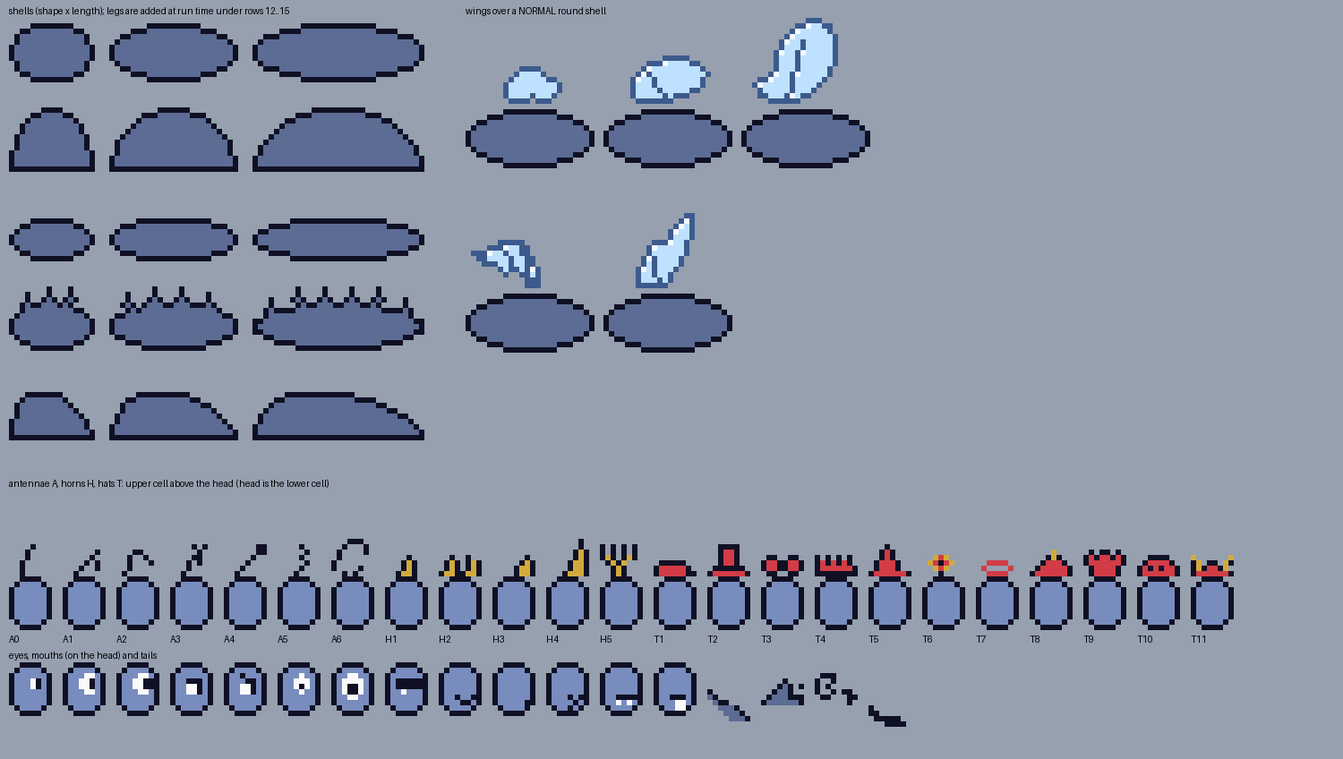
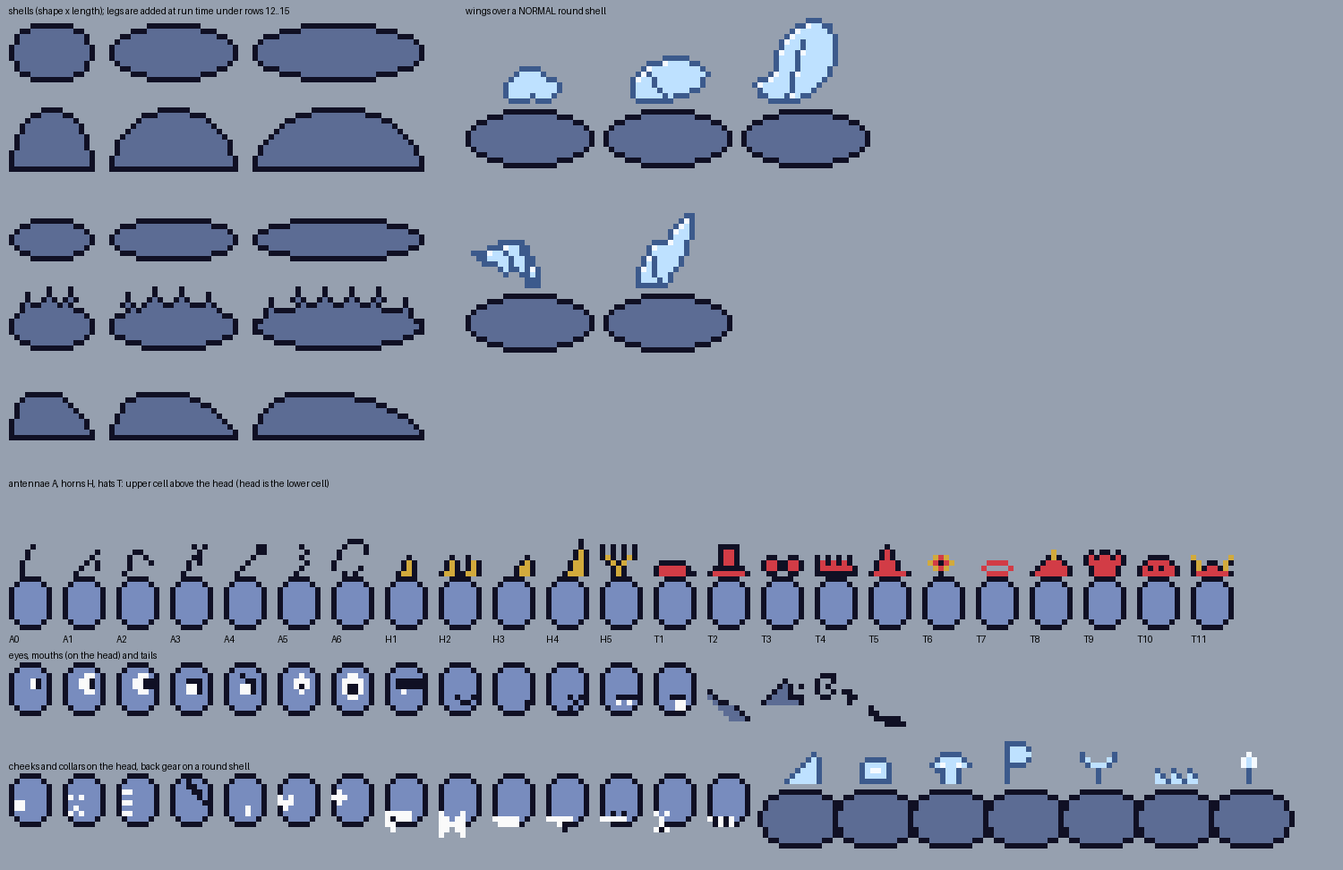
Creator: cheek paint, collars and back gear (16 parts), 24 more looks, 16 more colours; Save version 3 converts old saves
Claude-Session: https://claude.ai/code/session_01Pv3MBsFuKZ8wvqc3oRMvSU

Changed region(s): [[0.0, 0.6132, 0.9813, 0.9811], [0.0, 0.0, 0.6747, 0.5825], [0.3373, 0.0, 0.46, 0.0307]]

diff --git a/src/bug.c b/src/bug.c
@@ -6,7 +6,7 @@
 
 #define C15(r,g,b) ((UINT16)(((r)>>3)|(((g)>>3)<<5)|(((b)>>3)<<10)))
 
-static const UINT8 part_n[BP_N] = { 3, 5, 4, 12, 8, 6, 8, 3, 4, 6, 6, 5, 12 };
+static const UINT8 part_n[BP_N] = { 3, 5, 4, 12, 8, 6, 8, 3, 4, 6, 6, 5, 12, 8, 8, 8 };
 static const char *const n_length[] = { "SHORT", "NORMAL", "LONG" };
 static const char *const n_shape[]  = { "ROUND", "DOME", "FLAT", "SPIKY", "HUMPED" };
 static const char *const n_finish[] = { "SHINY", "MATTE", "METAL", "PEARL" };
@@ -20,14 +20,19 @@ static const char *const n_horn[]   = { "NONE", "HORN", "TWINS", "RHINO", "UNICO
 static const char *const n_wing[]   = { "NONE", "LITTLE", "BEETLE", "FLUTTER", "BAT", "FAIRY" };
 static const char *const n_tail[]   = { "NONE", "STINGER", "SPIKES", "CURLY", "LONG" };
 static const char *const n_hat[]    = { "NONE", "CAP", "TOP HAT", "BOW", "CROWN", "PARTY", "FLOWER", "HALO", "BEANIE", "CHEF", "HELMET", "VIKING" };
-static const char *const *const part_names[BP_N] = { n_length, n_shape, n_finish, n_pat, n_eye, n_mouth, n_ant, n_legs, n_legst, n_horn, n_wing, n_tail, n_hat };
-static const char *const part_label[BP_N] = { "LENGTH", "SHAPE", "FINISH", "PATTERN", "EYES", "MOUTH", "ANTENNA", "LEGS", "FEET", "HORN", "WINGS", "TAIL", "HAT" };
+static const char *const n_cheek[]  = { "NONE", "BLUSH", "FRECKLES", "STRIPES", "SCAR", "TEAR", "HEART", "STAR" };
+static const char *const n_neck[]   = { "NONE", "SCARF", "BOW TIE", "COLLAR", "BELL", "SPIKED", "MEDAL", "LEI" };
+static const char *const n_back[]   = { "NONE", "SAIL", "PACK", "SHROOM", "FLAG", "DISH", "SPIKES", "TORCH" };
+static const char *const *const part_names[BP_N] = { n_length, n_shape, n_finish, n_pat, n_eye, n_mouth, n_ant, n_legs, n_legst, n_horn, n_wing, n_tail, n_hat, n_cheek, n_neck, n_back };
+static const char *const part_label[BP_N] = { "LENGTH", "SHAPE", "FINISH", "PATTERN", "EYES", "MOUTH", "ANTENNA", "LEGS", "FEET", "HORN", "WINGS", "TAIL", "HAT", "CHEEKS", "COLLAR", "BACK" };
 static const char *const col_label[BC_N]  = { "SHELL", "MARKINGS", "HEAD", "EYES", "HORN", "WINGS", "HAT", "OUTLINE" };
 
 static const UINT16 swatch[BUG_NSWATCH] = {
     C15(92,108,148), C15(190,50,60), C15(50,140,60), C15(70,150,230), C15(230,100,80), C15(60,90,40), C15(120,60,180), C15(120,80,40),
-    C15(220,170,40), C15(200,200,215), C15(245,245,255), C15(20,20,28), C15(250,220,60), C15(110,40,110), C15(240,130,180), C15(170,80,30) };
-static const char *const swatch_name[BUG_NSWATCH] = { "STEEL","RUBY","LEAF","SKY","CORAL","MOSS","VIOLET","OAK","GOLD","PEARL","WHITE","BLACK","SUN","PLUM","ROSE","RUST" };
+    C15(220,170,40), C15(200,200,215), C15(245,245,255), C15(20,20,28), C15(250,220,60), C15(110,40,110), C15(240,130,180), C15(170,80,30),
+    C15(40,150,150), C15(150,230,200), C15(160,220,50), C15(250,190,150), C15(225,205,150), C15(90,100,120), C15(30,40,110), C15(120,30,40),
+    C15(190,160,230), C15(240,170,30), C15(90,55,35), C15(170,175,190), C15(60,220,240), C15(250,70,200), C15(120,120,40), C15(250,240,200) };
+static const char *const swatch_name[BUG_NSWATCH] = { "STEEL","RUBY","LEAF","SKY","CORAL","MOSS","VIOLET","OAK","GOLD","PEARL","WHITE","BLACK","SUN","PLUM","ROSE","RUST","TEAL","MINT","LIME","PEACH","SAND","SLATE","NAVY","MAROON","LILAC","AMBER","COCOA","SILVER","CYAN","PINK","OLIVE","CREAM" };
 static const char *const scheme_name[BUG_NSCHEME] = { "ANALOG","COMPLEM","TRIAD","SPLIT","MONO","PASTEL","NEON","EARTH","NIGHT" };
 
 /* ---- ready-made looks (ported from the GBA game's creator; its antenna and leg colours are now the outline) */
@@ -50,7 +55,31 @@ static const Preset presets[BUG_NPRESET] = {
     {"DEMON", {2,3,2,8,4,4,6,2,2,2,4,1,0}, {C15(40,20,30),C15(200,40,40),C15(200,40,40),C15(250,220,60),C15(240,230,210),C15(120,30,40),C15(200,40,40),C15(10,4,8)}},
     {"GHOST", {1,1,1,0,6,0,7,0,0,0,5,0,7}, {C15(220,225,240),C15(245,245,255),C15(245,245,255),C15(90,100,200),C15(220,170,40),C15(220,235,255),C15(250,230,120),C15(120,130,170)}},
     {"ROBOT", {1,2,2,4,7,2,4,2,1,0,0,0,10}, {C15(150,160,170),C15(80,240,250),C15(110,120,130),C15(80,240,250),C15(220,170,40),C15(190,225,255),C15(170,175,185),C15(30,34,40)}},
-    {"VIKING", {2,4,0,3,4,0,1,2,3,0,0,0,11}, {C15(150,90,50),C15(220,200,120),C15(240,200,120),C15(70,120,200),C15(240,230,210),C15(190,225,255),C15(170,175,195),C15(40,24,10)}}
+    {"VIKING", {2,4,0,3,4,0,1,2,3,0,0,0,11}, {C15(150,90,50),C15(220,200,120),C15(240,200,120),C15(70,120,200),C15(240,230,210),C15(190,225,255),C15(170,175,195),C15(40,24,10)}},
+    {"BLUSHY", {1,0,1,0,1,1,0,1,0,0,0,0,3,1,0,0}, {C15(250,190,200),C15(240,130,160),C15(250,215,205),C15(240,240,250),C15(220,170,40),C15(250,220,230),C15(240,90,140),C15(90,40,60)}},
+    {"SCARFY", {1,1,1,0,1,1,1,1,1,0,0,0,0,0,1,0}, {C15(230,120,50),C15(250,230,160),C15(240,190,120),C15(200,40,50),C15(220,170,40),C15(250,230,200),C15(200,40,50),C15(60,30,14)}},
+    {"SAILOR", {1,1,0,1,0,1,0,1,0,0,0,0,10,0,2,1}, {C15(240,240,250),C15(60,90,190),C15(240,215,190),C15(60,90,190),C15(220,170,40),C15(190,225,255),C15(240,240,250),C15(30,40,80)}},
+    {"CAMPER", {1,1,1,0,1,1,0,1,1,0,0,0,8,2,0,2}, {C15(90,140,70),C15(60,100,50),C15(230,200,150),C15(40,30,20),C15(220,170,40),C15(200,230,180),C15(200,60,50),C15(24,40,20)}},
+    {"AMANITA", {0,1,0,2,0,1,7,0,0,0,0,0,0,2,0,3}, {C15(210,50,50),C15(250,250,250),C15(245,235,215),C15(40,30,30),C15(220,170,40),C15(240,200,200),C15(210,50,50),C15(60,20,20)}},
+    {"PIRATEER", {1,2,0,0,7,2,1,1,3,0,0,0,2,4,1,4}, {C15(70,50,40),C15(200,170,60),C15(220,180,140),C15(250,250,250),C15(220,170,40),C15(190,225,255),C15(30,30,30),C15(24,16,10)}},
+    {"RADAR", {2,2,2,4,0,0,4,2,1,0,0,0,10,0,3,5}, {C15(130,140,150),C15(250,210,60),C15(170,180,190),C15(80,240,250),C15(220,170,40),C15(190,225,255),C15(150,160,170),C15(30,34,40)}},
+    {"FLAMEY", {1,3,0,3,4,4,1,1,0,2,0,1,0,6,5,7}, {C15(230,80,30),C15(250,200,50),C15(250,140,40),C15(255,240,120),C15(250,200,50),C15(250,180,120),C15(250,200,50),C15(60,16,8)}},
+    {"FROSTY", {1,1,3,11,1,1,0,1,0,0,5,0,8,5,1,0}, {C15(190,225,250),C15(255,255,255),C15(220,240,255),C15(70,130,230),C15(220,170,40),C15(230,245,255),C15(70,130,230),C15(60,90,140)}},
+    {"SPROUT", {0,0,1,6,1,1,4,0,0,0,0,0,6,1,7,0}, {C15(100,190,80),C15(250,230,80),C15(160,215,120),C15(40,60,30),C15(220,170,40),C15(220,250,200),C15(250,130,180),C15(30,70,30)}},
+    {"BOLTBUG", {1,2,2,5,5,0,5,2,1,0,0,0,0,0,0,5}, {C15(250,220,50),C15(40,40,60),C15(250,235,150),C15(255,255,255),C15(220,170,40),C15(255,250,190),C15(40,40,60),C15(40,30,10)}},
+    {"GRANDPA", {2,4,1,0,3,1,2,0,0,0,0,0,2,0,3,0}, {C15(150,130,110),C15(110,90,70),C15(220,200,175),C15(90,60,40),C15(170,150,120),C15(200,190,170),C15(60,50,50),C15(40,30,22)}},
+    {"DISCO", {0,0,2,7,2,1,3,1,0,0,3,0,4,7,4,0}, {C15(190,90,230),C15(250,230,90),C15(250,200,250),C15(90,240,230),C15(250,230,90),C15(250,170,240),C15(250,230,90),C15(50,20,70)}},
+    {"WIZARD", {1,3,0,5,3,1,1,1,0,0,0,0,5,0,1,7}, {C15(70,60,170),C15(250,220,80),C15(230,200,170),C15(250,250,250),C15(230,200,90),C15(190,200,255),C15(70,60,170),C15(20,16,60)}},
+    {"GOBLIN", {1,4,1,10,4,4,3,0,2,1,0,0,0,4,5,6}, {C15(110,170,70),C15(70,110,40),C15(140,190,90),C15(250,230,60),C15(230,220,190),C15(180,220,150),C15(90,70,40),C15(30,50,20)}},
+    {"COWBUG", {1,0,1,2,1,1,0,1,1,5,0,0,1,0,3,0}, {C15(250,250,250),C15(30,30,30),C15(240,220,200),C15(30,30,30),C15(230,225,205),C15(200,200,210),C15(130,80,40),C15(40,40,44)}},
+    {"SPACEMAN", {1,0,2,0,7,0,7,1,3,0,0,0,10,0,3,2}, {C15(235,238,245),C15(250,140,40),C15(200,210,230),C15(40,60,120),C15(220,170,40),C15(210,230,255),C15(235,238,245),C15(60,70,100)}},
+    {"CANDY", {0,0,0,1,2,1,4,1,0,0,2,0,5,1,7,0}, {C15(250,120,180),C15(250,250,250),C15(250,170,210),C15(120,70,200),C15(250,230,120),C15(250,200,230),C15(110,220,230),C15(120,50,90)}},
+    {"SHADOW", {2,3,1,0,4,3,6,2,2,1,4,4,0,4,5,6}, {C15(40,36,56),C15(110,60,170),C15(60,54,80),C15(240,60,180),C15(150,120,200),C15(70,56,100),C15(110,60,170),C15(10,8,18)}},
+    {"MUSHBUG", {0,2,1,6,0,1,0,0,0,0,0,0,6,1,7,3}, {C15(190,140,100),C15(240,230,200),C15(230,200,160),C15(60,40,30),C15(220,170,40),C15(230,220,200),C15(210,70,70),C15(60,36,24)}},
+    {"TINSEL", {1,1,3,7,5,1,4,1,0,0,5,0,7,6,1,0}, {C15(240,200,70),C15(250,250,250),C15(250,230,150),C15(250,90,150),C15(250,240,170),C15(255,245,200),C15(250,240,170),C15(100,70,20)}},
+    {"MOSSY", {2,4,1,10,3,1,2,2,2,0,0,2,0,3,0,3}, {C15(100,130,80),C15(150,170,100),C15(140,160,110),C15(240,230,120),C15(200,190,150),C15(190,210,170),C15(100,130,80),C15(34,44,24)}},
+    {"TWILIGHT", {1,0,2,9,1,1,1,1,0,0,3,3,4,7,1,5}, {C15(60,50,120),C15(240,120,170),C15(100,90,160),C15(250,240,160),C15(250,220,120),C15(210,170,240),C15(250,220,120),C15(20,14,50)}},
+    {"ROOKIE", {1,0,0,0,0,1,0,1,0,0,0,0,1,1,0,0}, {C15(120,180,230),C15(255,255,255),C15(240,220,190),C15(60,50,40),C15(220,170,40),C15(210,235,255),C15(220,60,60),C15(30,50,80)}}
 };
 void bug_preset_name(UINT8 i, char *out) BANKED { strcpy(out, presets[i % BUG_NPRESET].name); }
 UINT8 bug_part_cnt(UINT8 part) BANKED { return part_n[part]; }
@@ -70,7 +99,7 @@ void bug_default(BugLook *l) BANKED { memset(l, 0, sizeof *l); bug_preset(l, 0, 
 void bug_clamp(BugLook *l) BANKED { UINT8 k; for(k = 0; k < BP_N; k++) if(l->pt[k] >= part_n[k]) l->pt[k] = 0; for(k = 0; k < BC_N; k++) l->col[k] &= 0x7FFF; }
 UINT8 bug_col_on(const BugLook *l, UINT8 c) BANKED {
     switch(c){ case BC_MARK: return l->pt[BP_PAT] != 0; case BC_HORN: return l->pt[BP_HORN] != 0;
-               case BC_WING: return l->pt[BP_WING] != 0; case BC_HAT: return l->pt[BP_HAT] != 0; default: return 1; }
+               case BC_WING: return l->pt[BP_WING] != 0 || l->pt[BP_BACK] != 0; case BC_HAT: return l->pt[BP_HAT] != 0; default: return 1; }
 }
 
 /* ---- colour tools */

diff --git a/tools/make_bug.py b/tools/make_bug.py
@@ -29,6 +29,9 @@ ANTS    = ("CURLED", "STRAIGHT", "DROOPY", "FEATHERY", "CLUBBED", "ZIGZAG", "WHI
 HORNS   = ("NONE", "HORN", "TWINS", "RHINO", "UNICORN", "ANTLERS")
 WINGS   = ("NONE", "LITTLE", "BEETLE", "FLUTTER", "BAT", "FAIRY")
 TAILS   = ("NONE", "STINGER", "SPIKES", "CURLY", "LONG")
+CHEEKS = ("NONE", "BLUSH", "FRECKLES", "STRIPES", "SCAR", "TEAR", "HEART", "STAR")
+NECKS   = ("NONE", "SCARF", "BOW TIE", "COLLAR", "BELL", "SPIKED", "MEDAL", "LEI")
+BACKS   = ("NONE", "SAIL", "PACK", "SHROOM", "FLAG", "DISH", "SPIKES", "TORCH")
 HATS    = ("NONE", "CAP", "TOP HAT", "BOW", "CROWN", "PARTY", "FLOWER", "HALO", "BEANIE", "CHEF", "HELMET", "VIKING")
 
 
@@ -240,6 +243,41 @@ HAT_ART = [
 ]
 
 
+# face paint on the head's lower cell (drawn after the eyes): 3 = the eye colour, 1 = outline
+CHEEK_ART = [
+    None,
+    (1, 5, ["33", "33"]),                                                  # BLUSH
+    (1, 4, ["3.3", "...", ".3.", "3.3"]),                                  # FRECKLES
+    (1, 3, ["33", "..", "33", "..", "33"]),                                # STRIPES
+    (3, 1, ["1..", "11.", ".11", "..1", "...1"]),                          # SCAR
+    (4, 6, ["3", "3", "."]),                                               # TEAR
+    (0, 4, ["3.3", "333", ".3."]),                                         # HEART
+    (0, 3, [".3.", "333", ".3."]),                                         # STAR
+]
+# collars and scarves under the head (lower cell, drawn before the mouth): 3 = the eye colour, 1 = outline
+NECK_ART = [
+    None,
+    (0, 7, ["33333.", "3.333.", "33....", ".3...."]),                      # SCARF
+    (0, 7, ["3...3", "33.33", "33333", "33.33", "3...3"]),                 # BOW TIE
+    (0, 8, ["33333", ".3333"]),                                            # COLLAR
+    (0, 8, ["33333", "..31.", "...1."]),                                   # BELL
+    (0, 7, ["1.1.1.", "33333."]),                                          # SPIKED
+    (0, 7, ["3.3...", ".3....", ".3....", "313..."]),                      # MEDAL
+    (0, 8, ["31313", ".1313"]),                                            # LEI
+]
+# gear on the shell's back (wing palette: 1 shade, 2 wing, 3 light), sitting on the bottom row of the wing cell; a stem reaches down to the shell
+BACK_ART = [
+    None,
+    ["......1.", ".....121", "....1221", "...12221", "..122221", ".1222221"],                  # SAIL
+    ["..1111..", ".122221.", ".123321.", ".122221.", ".111111."],                              # PACK
+    ["..1111..", ".122221.", "12322321", ".11221..", "..1221..", "..1221.."],                  # SHROOM
+    ["1111....", "12221...", "12222...", "12221...", "1111....", "1.......", "1.......", "1......."],   # FLAG
+    ["1.....1.", "12...21.", ".12221..", "...1....", "...1....", "...1...."],                  # DISH
+    ["1..1..1.", "21.21.21", "22122122"],                                                      # SPIKES
+    ["...3....", "..323...", "..323...", "...1....", "...1....", "...1...."],                  # TORCH
+]
+
+
 def pad(rows, w=8):
     return [r.ljust(w, ".")[:w] for r in rows]
 
@@ -342,12 +380,21 @@ def main():
     add("bp_tail", G(8, 16))
     for ox, oy, rows in TAIL_ART[1:]:
         add("bp_tail", place(rows, ox, oy))
+    add("bp_cheek", G(8, 16))
+    for ox, oy, rows in CHEEK_ART[1:]:
+        add("bp_cheek", place(rows, ox, oy))
+    add("bp_neck", G(8, 16))
+    for ox, oy, rows in NECK_ART[1:]:
+        add("bp_neck", place(rows, ox, oy))
+    add("bp_back", G(8, 16))
+    for rows in BACK_ART[1:]:
+        add("bp_back", anchored(rows))
     dump_sheet()
     write_c(o)
 
 
 def write_c(o):
-    c = ['/* GENERATED by tools/make_bug.py - do not edit. Bug part art, 2 bits per pixel (see bug.h for BugPart). */',
+    c = ['#pragma bank 12', '/* GENERATED by tools/make_bug.py - do not edit. Bug part art, 2 bits per pixel (see bug.h for BugPart). */',
          '#include "bug.h"']
     c += o.data
     for name, items in o.parts.items():
@@ -369,7 +416,7 @@ def dump_sheet():
         "acc":  [(0, 0, 0), (16, 16, 36), (210, 170, 60), (210, 60, 70)],
         "wing": [(0, 0, 0), (60, 90, 140), (190, 225, 255), (245, 250, 255)],
     }
-    im = Image.new("RGB", (1500, 1000), (150, 160, 175))
+    im = Image.new("RGB", (1500, 1200), (150, 160, 175))
     d = ImageDraw.Draw(im)
     def blit(g, x0, y0, p):
         for y in range(g.h):
@@ -412,6 +459,14 @@ def dump_sheet():
         blit(hd, x, y, "head"); blit(place(rows, ox, oy), x, y, "head"); x += 8 * S + 12
     for ox, oy, rows in TAIL_ART[1:]:
         blit(place(rows, ox, oy), x, y, "body"); x += 8 * S + 12
+    y += 16 * S + 14
+    label(10, y, "cheeks and collars on the head, back gear on a round shell"); y += 14
+    x = 10
+    for ox, oy, rows in CHEEK_ART[1:] + NECK_ART[1:]:
+        blit(hd, x, y, "head"); blit(place(rows, ox, oy), x, y, "head"); x += 8 * S + 12
+    x += 20
+    for rows in BACK_ART[1:]:
+        blit(anchored(rows), x, y - 14 * S, "wing"); blit(shell(0, 16), x - 4 * S, y + 2 * S, "body"); x += 12 * S + 12
     im.crop((0, 0, 1500, y + 16 * S + 12)).save(os.path.join(ROOT, "tools", "bugparts_check.png"))
 
 

diff --git a/src/bug.h b/src/bug.h
@@ -3,7 +3,7 @@
 #include <gb/gb.h>
 /* The bug (step 5): a creature built from parts. Pure logic, no hardware: tests/host_test.c runs all of it on a PC.
 
-   A BugLook is 13 part choices + 8 colours (29 bytes, saved with the slot). bug_build() turns it into sprites:
+   A BugLook is 16 part choices + 8 colours (32 bytes, saved with the slot). bug_build() turns it into sprites:
    the parts (art in bugparts.c, made by tools/make_bug.py) are stamped into a 2-bit picture, which is cut into
    8x16 sprite cells, each with one 4-colour palette. Geometry of the picture (facing right; x runs left to right):
 
@@ -16,12 +16,12 @@
    A bug is at most 6 columns wide, so it never uses more than 6 of the 10 sprites a scanline allows (BUG_BUDGET).
    Each 8x16 cell has 3 colours + clear, so the 8 creator colours are shared out like this:
         palette 0  OUTLINE, SHELL, MARKINGS (or the shine when the pattern is plain)    legs and tail use these too
-        palette 1  OUTLINE, HEAD, EYES                                                  head, eyes, mouth
+        palette 1  OUTLINE, HEAD, EYES                                                  head, eyes, mouth, cheek paint and collars (EYES colour)
         palette 2  OUTLINE, HORN, HAT                                                   antennae, horns, hats
-        palette 3  WING shade, WING, WING light (both made from the one WING colour)    wings
+        palette 3  WING shade, WING, WING light (both made from the one WING colour)    wings and the gear on the back
    Frame 0/1 are the two walking poses (the legs swap; the sprites also bob one pixel). */
 
-enum { BP_LENGTH, BP_SHAPE, BP_FINISH, BP_PAT, BP_EYE, BP_MOUTH, BP_ANT, BP_LEGS, BP_LEGST, BP_HORN, BP_WING, BP_TAIL, BP_HAT, BP_N };
+enum { BP_LENGTH, BP_SHAPE, BP_FINISH, BP_PAT, BP_EYE, BP_MOUTH, BP_ANT, BP_LEGS, BP_LEGST, BP_HORN, BP_WING, BP_TAIL, BP_HAT, BP_CHEEK, BP_NECK, BP_BACK, BP_N };
 enum { BC_SHELL, BC_MARK, BC_HEAD, BC_EYE, BC_HORN, BC_WING, BC_HAT, BC_LINE, BC_N };
 
 typedef struct {
@@ -36,14 +36,14 @@ void   bug_part_name(UINT8 part, UINT8 choice, char *out) BANKED;   /* "NORMAL",
 void   bug_col_label(UINT8 c, char *out) BANKED;             /* "SHELL", "MARKINGS" ... */
 UINT8  bug_col_on(const BugLook *l, UINT8 c) BANKED;         /* 0 when the part that colour paints is switched off */
 
-#define BUG_NPRESET 18
+#define BUG_NPRESET 42
 void   bug_preset_name(UINT8 i, char *out) BANKED;
 void   bug_preset(BugLook *l, UINT8 i, UINT16 lock_parts, UINT8 lock_cols) BANKED;   /* ready-made look i; a locked part (bit BP_x) or colour (bit BC_x) keeps what it has */
 void   bug_default(BugLook *l) BANKED;                       /* the CLASSIC look */
 void   bug_clamp(BugLook *l) BANKED;                         /* force every part into range (damaged save) */
 
 /* the swatches, a colour scheme maker, the mixer's helpers */
-#define BUG_NSWATCH 16
+#define BUG_NSWATCH 32
 UINT16 bug_swatch(UINT8 i) BANKED;
 void   bug_swatch_name(UINT8 i, char *out) BANKED;
 UINT8  bug_swatch_of(UINT16 c) BANKED;                       /* which swatch has exactly that colour, or 255 */
@@ -58,7 +58,7 @@ void   bug_surprise(BugLook *l, UINT16 lock_parts, UINT8 lock_cols) BANKED;
 
 /* ---- sprites */
 typedef struct { UINT8 w, h, ox, oy; const unsigned char *px; } BugPart;   /* 2 bits per pixel, 4 to a byte, row by row */
-extern const BugPart bp_shell[], bp_wings[], bp_head[], bp_eye[], bp_mouth[], bp_ant[], bp_horn[], bp_hat[], bp_tail[];
+extern const BugPart bp_shell[], bp_wings[], bp_head[], bp_eye[], bp_mouth[], bp_ant[], bp_horn[], bp_hat[], bp_tail[], bp_cheek[], bp_neck[], bp_back[];
 
 #define BUG_FRAMES  2
 #define BUG_MAXCELL 11               /* wing cells 0..3, shell cells 4..7, tail 8, hat 9, face 10 */

diff --git a/src/bugparts.c b/src/bugparts.c
@@ -72,6 +72,27 @@ static const unsigned char d75[] = {1,0,6,0,88,0,160,6,128,26,0,106};
 static const unsigned char d76[] = {0,1,64,70,144,6,164,86,169,106};
 static const unsigned char d77[] = {84,0,65,0,17,0,65,20,20,80,0,16};
 static const unsigned char d78[] = {1,64,1,64,85,0,85};
+static const unsigned char d80[] = {255};
+static const unsigned char d81[] = {51,192,204};
+static const unsigned char d82[] = {15,15,15};
+static const unsigned char d83[] = {1,5,20,16,64};
+static const unsigned char d84[] = {15};
+static const unsigned char d85[] = {243,207,0};
+static const unsigned char d86[] = {204,207,0};
+static const unsigned char d88[] = {255,207,255,0,3};
+static const unsigned char d89[] = {3,63,255,255,243,3,3};
+static const unsigned char d90[] = {255,243,15};
+static const unsigned char d91[] = {255,195,1,4};
+static const unsigned char d92[] = {17,253,15};
+static const unsigned char d93[] = {51,195,220};
+static const unsigned char d94[] = {119,211,13};
+static const unsigned char d96[] = {0,4,64,6,164,65,106,164,90,170,6};
+static const unsigned char d97[] = {84,145,106,249,150,106,85,5};
+static const unsigned char d98[] = {80,5,164,26,185,110,148,6,144,6,144,6};
+static const unsigned char d99[] = {85,164,150,106,106,85,4,16,64,0};
+static const unsigned char d100[] = {1,80,2,70,106,0,1,64,0,16,0};
+static const unsigned char d101[] = {65,16,134,97,154,166};
+static const unsigned char d102[] = {204,190,19,4,1};
 const BugPart bp_shell[15] = {{16,16,0,0,d0},{24,16,0,0,d1},{32,16,0,0,d2},{16,16,0,0,d3},{24,16,0,0,d4},{32,16,0,0,d5},{16,16,0,0,d6},{24,16,0,0,d7},{32,16,0,0,d8},{16,16,0,0,d9},{24,16,0,0,d10},{32,16,0,0,d11},{16,16,0,0,d12},{24,16,0,0,d13},{32,16,0,0,d14}};
 const BugPart bp_wings[18] = {{0,0,0,0,0},{0,0,0,0,0},{0,0,0,0,0},{11,7,2,9,d18},{11,7,7,9,d19},{11,7,11,9,d20},{11,9,3,7,d21},{15,9,5,7,d22},{20,9,6,7,d23},{13,16,0,0,d24},{16,16,2,0,d25},{18,16,5,0,d26},{8,9,1,7,d27},{13,9,1,7,d28},{17,9,2,7,d29},{11,14,2,2,d30},{11,14,6,2,d31},{11,14,11,2,d32}};
 const BugPart bp_head[1] = {{8,10,0,0,d33}};
@@ -81,3 +102,6 @@ const BugPart bp_ant[8] = {{3,6,2,10,d48},{5,5,2,11,d49},{6,5,1,11,d50},{5,6,2,1
 const BugPart bp_horn[6] = {{0,0,0,0,0},{4,4,2,12,d57},{8,4,0,12,d58},{4,4,4,12,d59},{5,7,3,9,d60},{7,6,0,10,d61}};
 const BugPart bp_hat[12] = {{0,0,0,0,0},{8,3,0,13,d63},{8,6,0,10,d64},{8,4,0,12,d65},{8,4,0,12,d66},{8,6,0,10,d67},{5,4,1,12,d68},{6,3,1,13,d69},{8,5,0,11,d70},{8,5,0,11,d71},{8,4,0,12,d72},{8,4,0,12,d73}};
 const BugPart bp_tail[5] = {{0,0,0,0,0},{8,6,0,5,d75},{8,5,0,3,d76},{8,6,0,2,d77},{7,4,0,8,d78}};
+const BugPart bp_cheek[8] = {{0,0,0,0,0},{2,2,1,5,d80},{3,4,1,4,d81},{2,5,1,3,d82},{4,5,3,1,d83},{1,2,4,6,d84},{3,3,0,4,d85},{3,3,0,3,d86}};
+const BugPart bp_neck[8] = {{0,0,0,0,0},{5,4,0,7,d88},{5,5,0,7,d89},{5,2,0,8,d90},{5,3,0,8,d91},{5,2,0,7,d92},{3,4,0,7,d93},{5,2,0,8,d94}};
+const BugPart bp_back[8] = {{0,0,0,0,0},{7,6,1,10,d96},{6,5,1,11,d97},{8,6,0,10,d98},{5,8,0,8,d99},{7,6,0,10,d100},{8,3,0,13,d101},{3,6,2,10,d102}};

diff --git a/src/save.c b/src/save.c
@@ -5,7 +5,7 @@
 
 #define SAVE_MAGIC 0x43475542UL      /* "BUGC" */
 #define SET_MAGIC  0x53544553UL      /* "SETS" */
-#define SAVE_VER   2
+#define SAVE_VER   3
 #define SET_BANK   3
 /* MBC5 cart RAM: 0x0A to 0x0000-0x1FFF enables it, the RAM bank number goes to 0x4000-0x5FFF.
    (tests/ overrides these to run the save logic on a PC) */
@@ -24,6 +24,12 @@ typedef struct { UINT32 magic; UINT8 last; Opts o; UINT32 sum; } Settings;
 typedef struct {                 /* the version 1 slot (steps 3-4), converted on load */
     UINT32 magic; UINT16 ver; UINT32 seed; UINT8 zone; UINT16 level; UINT16 hp, mp; UINT32 gold, xp, secs; UINT16 saves; char name[9]; UINT8 rsv[20]; UINT32 sum;
 } Save1;
+
+typedef struct {                 /* the version 2 slot: the same, but the bug had 13 parts (the last three are none in a converted save) */
+    UINT32 magic; UINT16 ver; UINT32 seed; UINT8 zone; UINT16 level; UINT16 hp, mp; UINT32 gold, xp, secs; UINT16 saves; char name[9];
+    UINT16 col[BC_N]; UINT8 pt[13];
+    UINT8 friends, deepest, potions, star, cores, story, freed[8]; UINT16 warp_best; UINT8 rsv[7]; UINT32 sum;
+} Save2;
 
 static volatile UINT32 vbl32;
 static UINT32 play_base, play_t0;
@@ -85,10 +91,20 @@ void save_init(void){
 }
 
 UINT8 slot_peek(UINT8 slot, Save *out){
-    Save1 o;
+    Save1 o; Save2 t;
     if(slot >= NSLOT) return 0;
     sram_read(slot, out, sizeof(Save));
     if(out->magic == SAVE_MAGIC && out->ver == SAVE_VER && out->sum == fnv(out, sizeof(Save) - 4)) return 1;
+    sram_read(slot, &t, sizeof t);                                   /* a version 2 save: the same slot, a bug with 13 parts */
+    if(t.magic == SAVE_MAGIC && t.ver == 2 && t.sum == fnv(&t, sizeof t - 4)){
+        memset(out, 0, sizeof *out);
+        out->magic = SAVE_MAGIC; out->ver = SAVE_VER; out->seed = t.seed; out->zone = t.zone; out->level = t.level; out->hp = t.hp; out->mp = t.mp;
+        out->gold = t.gold; out->xp = t.xp; out->secs = t.secs; out->saves = t.saves; memcpy(out->name, t.name, 9);
+        memcpy(out->look.col, t.col, sizeof t.col); memcpy(out->look.pt, t.pt, 13);
+        out->friends = t.friends; out->deepest = t.deepest; out->potions = t.potions; out->star = t.star; out->cores = t.cores; out->story = t.story;
+        memcpy(out->freed, t.freed, 8); out->warp_best = t.warp_best;
+        return 1;
+    }
     sram_read(slot, &o, sizeof o);                                   /* an old step 3-4 save: keep it, give the bug the CLASSIC look */
     if(o.magic != SAVE_MAGIC || o.ver != 1 || o.sum != fnv(&o, sizeof o - 4)) return 0;
     memset(out, 0, sizeof *out);

diff --git a/tests/host_test.c b/tests/host_test.c
@@ -276,6 +276,27 @@ int main(void){
       slot_peek(0, &t); CHECK(t.level == 33);                                  /* autosave off: not written */
       CHECK(stub_win == 0);
     }
+    /* ---- a version 2 save (13-part bug) is converted */
+    { typedef struct { UINT32 magic; UINT16 ver; UINT32 seed; UINT8 zone; UINT16 level; UINT16 hp, mp; UINT32 gold, xp, secs; UINT16 saves; char name[9];
+        UINT16 col[BC_N]; UINT8 pt[13]; UINT8 friends, deepest, potions, star, cores, story, freed[8]; UINT16 warp_best; UINT8 rsv[7]; UINT32 sum; } S2;
+      S2 o; Save t; UINT32 h = 2166136261UL; UINT8 *b = (UINT8 *)&o; UINT16 i;
+      memset(&o, 0, sizeof o); o.magic = 0x43475542UL; o.ver = 2; o.seed = 777; o.level = 9; o.gold = 1234; strcpy(o.name, "OLDIE"); o.col[0] = 0x1234; o.pt[1] = 3; o.pt[12] = 7; o.cores = 2; o.warp_best = 55;
+      for(i = 0; i < sizeof o - 4; i++){ h ^= b[i]; h *= 16777619UL; } o.sum = h;
+      memset(sram_buf, 0xFF, sizeof sram_buf); stub_bank = 1; memcpy(sram_buf + 8192, &o, sizeof o);
+      CHECK(slot_peek(1, &t) && t.ver == 3 && t.seed == 777 && t.level == 9 && t.gold == 1234 && !strcmp(t.name, "OLDIE") && t.look.col[0] == 0x1234 && t.look.pt[1] == 3 && t.look.pt[12] == 7
+            && t.look.pt[BP_CHEEK] == 0 && t.look.pt[BP_NECK] == 0 && t.look.pt[BP_BACK] == 0 && t.cores == 2 && t.warp_best == 55);
+    }
+    /* ---- the bug builder: nothing may need more than the sprite budget on one scanline, whatever the parts */
+    { BugLook l; UINT8 i, k, v, ok = 1;
+      for(i = 0; i < BUG_NPRESET; i++){ bug_default(&l); bug_preset(&l, i, 0, 0); bug_clamp(&l); bug_build(&l); if(bug_peak() > BUG_BUDGET || !bug_set.n) ok = 0; }
+      CHECK(ok);
+      ok = 1;
+      for(k = 0; k < BP_N; k++) for(v = 0; v < bug_part_cnt(k); v++){
+          bug_default(&l); l.pt[BP_LENGTH] = 2; l.pt[BP_TAIL] = 1; l.pt[k] = v; bug_build(&l);
+          if(bug_peak() > BUG_BUDGET || bug_set.n > BUG_MAXCELL) ok = 0; }
+      CHECK(ok);
+      bug_default(&l); l.pt[BP_BACK] = 2; bug_build(&l); { UINT8 any = 0, x, y; for(y = 0; y < 16; y++) for(x = 0; x < BUG_BW; x++) if(bug_pixel(x, y)) any = 1; CHECK(any); }   /* the back gear is up in the wing cells */
+    }
     fprintf(stdout, "%s\n", fails ? "FAILED" : "ALL OK");
     return fails;
 }

diff --git a/src/bugbuild.c b/src/bugbuild.c
@@ -51,6 +51,16 @@ static void draw_shell(const BugLook *l, UINT8 x0, UINT8 W){
         if(on) PX(x0 + x, 16 + y) = 3;
     }
 }
+static void draw_back(const BugLook *l, UINT8 x0, UINT8 W){      /* gear on the back: in the wing cell, with a stem down to the shell */
+    const BugPart *b = &bp_back[l->pt[BP_BACK]];
+    UINT8 cx = x0 + (W >> 1) - 4, x, y, top;
+    if(!b->w) return;
+    stamp(b, cx, 0);
+    for(x = cx; x < cx + 8; x++) if(PX(x, 15)){
+        for(top = 16; top < 28 && !PX(x, top); top++) ;
+        if(top < 28) for(y = 16; y < top; y++) PX(x, y) = 1;       /* (index 1 is the outline in the shell's palette) */
+    }
+}
 static void draw_legs(const BugLook *l, UINT8 x0, UINT8 W, UINT8 f){
     UINT8 n = 2 + l->pt[BP_LEGS], i, lx, by, y, len, lift, k, st = l->pt[BP_LEGST];
     for(i = 0; i < n; i++){
@@ -79,10 +89,13 @@ static void draw_canvas(const BugLook *l, UINT8 f, UINT8 tc, UINT8 hc, UINT8 W){
     if(l->pt[BP_WING]) stamp(&bp_wings[l->pt[BP_WING] * 3 + l->pt[BP_LENGTH]], tc * 8, 0);
     if(tc) stamp(&bp_tail[l->pt[BP_TAIL]], 0, 16);
     draw_shell(l, tc * 8, W);
+    draw_back(l, tc * 8, W);
     draw_legs(l, tc * 8, W, f);
     stamp(&bp_head[0], hc * 8, HEAD_LO);
+    stamp(&bp_neck[l->pt[BP_NECK]], hc * 8, HEAD_LO);
     stamp(&bp_eye[l->pt[BP_EYE]], hc * 8, HEAD_LO);
     stamp(&bp_mouth[l->pt[BP_MOUTH]], hc * 8, HEAD_LO);
+    stamp(&bp_cheek[l->pt[BP_CHEEK]], hc * 8, HEAD_LO);
     stamp(&bp_ant[l->pt[BP_ANT]], hc * 8, HEAD_UP);
     stamp(&bp_horn[l->pt[BP_HORN]], hc * 8, HEAD_UP);
     stamp(&bp_hat[l->pt[BP_HAT]], hc * 8, HEAD_UP);

diff --git a/src/save.h b/src/save.h
@@ -9,7 +9,7 @@
    The GBA game's 64-bit economy and huge galaxy address are gone: a world is one 32-bit seed. */
 #define NSLOT 3
 
-typedef struct {                 /* one save slot: 96 bytes on the cartridge (version 2; version 1 was 64 and is converted on load) */
+typedef struct {                 /* one save slot: 96 bytes on the cartridge (version 3; versions 1 (64 bytes) and 2 (the bug had 13 parts) are converted on load) */
     UINT32 magic;                /* SAVE_MAGIC */
     UINT16 ver;
     UINT32 seed;                 /* the world: everything is generated from this */
@@ -29,7 +29,7 @@ typedef struct {                 /* one save slot: 96 bytes on the cartridge (ve
     UINT8  story;                /* ST_* flags */
     UINT8  freed[8];             /* the stars whose worlds gave a core, in order */
     UINT16 warp_best;            /* the most gold earned in one warp (the rail shooter) */
-    UINT8  rsv[7];              /* (new fields come out of here; a fresh game zeroes them, older saves had them zero too) */
+    UINT8  rsv[4];              /* (new fields come out of here; a fresh game zeroes them, older saves had them zero too) */
     UINT32 sum;                  /* FNV-1a of everything before it */
 } Save;
 

diff --git a/src/bugmake.c b/src/bugmake.c
@@ -34,8 +34,8 @@ enum { R_COL0 = 32, R_MATCH = 48, R_NAME, R_LOOKS, R_DICE, R_STAGE, R_END = 255 
 static const char *const tab_nm[NTAB] = { "BODY", "HEAD", "GEAR", "PAINT", "ME" };
 static const UINT8 tab_rows[NTAB][11] = {
     { BP_LENGTH, BP_SHAPE, BP_FINISH, BP_PAT, BP_LEGS, BP_LEGST, R_END },
-    { BP_EYE, BP_MOUTH, BP_ANT, BP_HORN, R_END },
-    { BP_HAT, BP_WING, BP_TAIL, R_END },
+    { BP_EYE, BP_MOUTH, BP_CHEEK, BP_ANT, BP_HORN, R_END },
+    { BP_HAT, BP_NECK, BP_BACK, BP_WING, BP_TAIL, R_END },
     { R_COL0 + BC_SHELL, R_COL0 + BC_MARK, R_COL0 + BC_HEAD, R_COL0 + BC_EYE, R_COL0 + BC_HORN, R_COL0 + BC_WING, R_COL0 + BC_HAT, R_COL0 + BC_LINE, R_MATCH, R_END },
     { R_NAME, R_LOOKS, R_DICE, R_STAGE, R_END } };
 static const char *const stage_nm[STAGE_N] = { "SKY", "MIDNIGHT", "DUSK", "MEADOW", "CAVE", "CANDY" };
